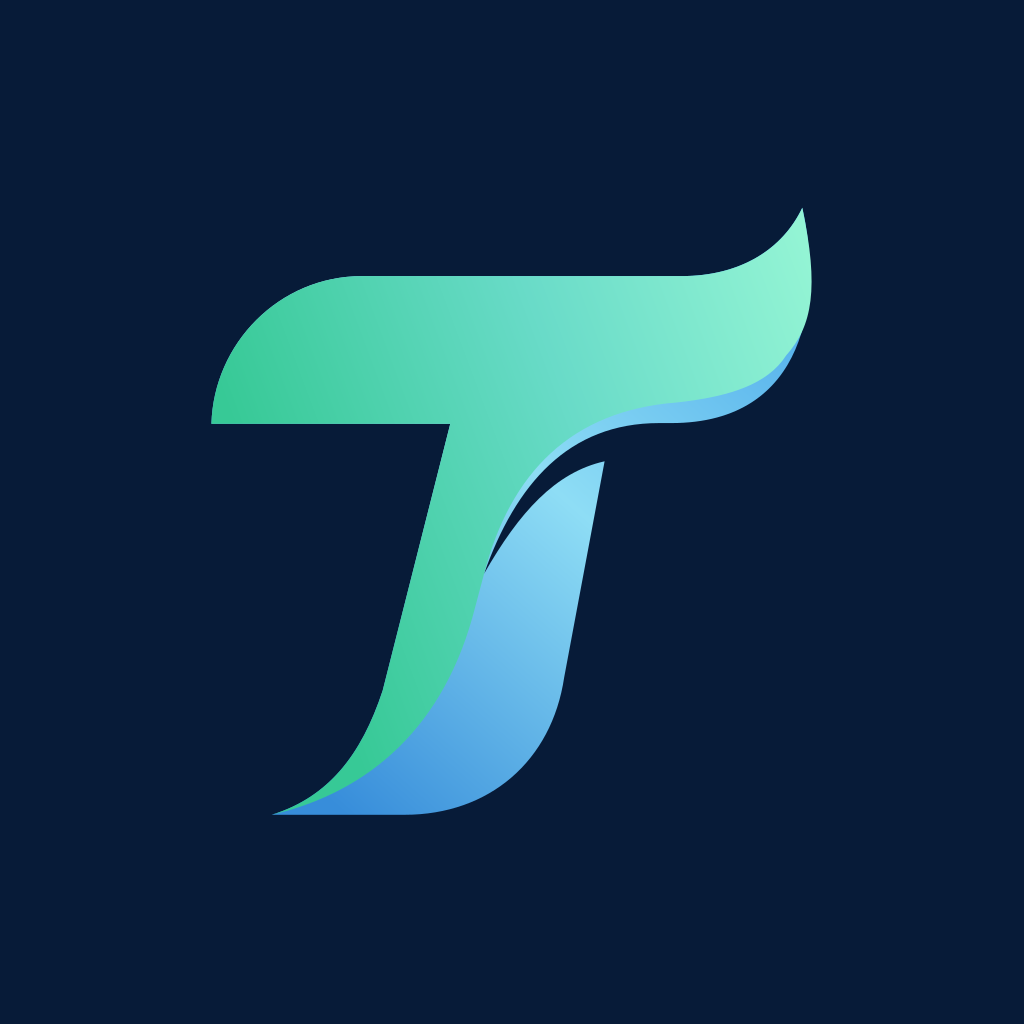
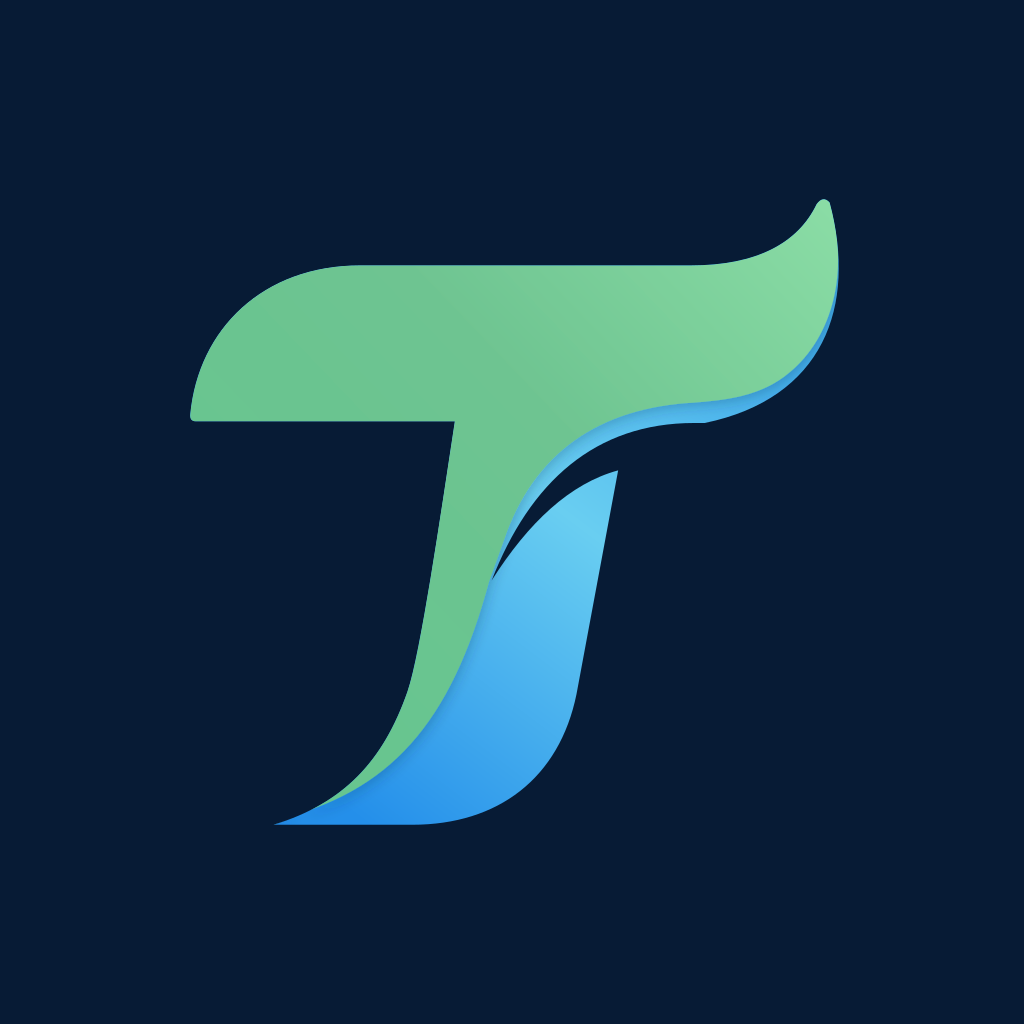
Unify approved Tempo mark and refine text-free launch motion [skip ci]

Changed region(s): [[0.1875, 0.1875, 0.8438, 0.8125]]

diff --git a/ios/TempoHealth/Sources/AccountViews.swift b/ios/TempoHealth/Sources/AccountViews.swift
@@ -10,19 +10,17 @@ struct TempoLaunchView: View {
     var body: some View {
         ZStack {
             TempoTheme.background
-            Image("TempoLaunchMark")
-                .resizable().scaledToFit().frame(width: 154, height: 154)
-                .mask { Rectangle().scaleEffect(x: 1, y: hasAppeared || reduceMotion ? 1 : 0, anchor: .bottom) }
-                .offset(y: hasAppeared || reduceMotion ? 0 : 12)
-                .scaleEffect(hasAppeared || reduceMotion ? 1 : 0.9)
-                .opacity(hasAppeared ? 1 : 0)
-                .animation(reduceMotion ? nil : .spring(response: 0.72, dampingFraction: 0.86), value: hasAppeared)
+            TempoBrandMark(size: 154)
+                .scaleEffect(reduceMotion || hasAppeared ? 1 : 0.94)
+                .blur(radius: reduceMotion || hasAppeared ? 0 : 3)
+                .opacity(reduceMotion || hasAppeared ? 1 : 0)
+                .animation(reduceMotion ? nil : .timingCurve(0.16, 1, 0.3, 1, duration: 0.82), value: hasAppeared)
                 .accessibilityIdentifier("launch.brand")
         }
         .frame(maxWidth: .infinity, maxHeight: .infinity)
         .ignoresSafeArea()
         .onAppear { hasAppeared = true }
-        .accessibilityElement(children: .contain)
+        .accessibilityElement(children: .ignore)
         .accessibilityLabel("Tempo")
     }
 }
@@ -34,6 +32,7 @@ struct TempoBrandMark: View {
         Image("TempoLaunchMark")
             .resizable()
             .scaledToFit()
+            .scaleEffect(1.3)
             .frame(width: size, height: size)
     }
 }

diff --git a/ios/TempoHealth/Sources/ContentView.swift b/ios/TempoHealth/Sources/ContentView.swift
@@ -80,6 +80,7 @@ struct ContentView: View {
         Group {
             if !minimumLaunchFinished || account.isRestoring {
                 TempoLaunchView()
+                    .transition(.opacity)
             } else if !account.isAuthenticated {
                 AccountWelcomeView()
             } else if account.profile?.onboardingComplete != true {
@@ -91,8 +92,10 @@ struct ContentView: View {
         .background(TempoTheme.background.ignoresSafeArea())
         .preferredColorScheme(.dark)
         .task {
-            try? await Task.sleep(nanoseconds: 1_400_000_000)
-            withAnimation(reduceMotion ? nil : .easeOut(duration: 0.25)) {
+            do { try await Task.sleep(nanoseconds: reduceMotion ? 200_000_000 : 1_150_000_000) }
+            catch { return }
+            guard !Task.isCancelled else { return }
+            withAnimation(reduceMotion ? nil : .easeOut(duration: 0.22)) {
                 minimumLaunchFinished = true
             }
         }

diff --git a/docs/tempo-final-polish-2026-10-25.md b/docs/tempo-final-polish-2026-10-25.md
@@ -154,3 +154,11 @@ The user-triggered build 40414108075 succeeded on c5f7885. The newer native chan
 - Returning manually from Strava releases the busy button while retaining the verifier for a delayed valid return. Choosing to skip or disconnect invalidates pending authorization so its late callback cannot reconnect against that choice. Existing ticket exchange and persistent connection storage are retained.
 - Focused existing OAuth state test passed with native preparation, denied callback, invalid challenge and existing web/mobile/tamper assertions. JavaScript syntax, Info.plist XML, Swift declaration inventory, localization uniqueness and diff integrity were checked. No full suite, simulator, iOS build or TestFlight upload was started. Actual app-to-app UI behavior still requires the new iOS build on an iPhone with Strava installed.
 - Production Cloudflare version b7af8401-a6b1-4225-8203-546067c14ac1 deployed with existing variables preserved. A synthetic live request returned preparation 200 with the expected Strava destination and a PKCE-bound denial return 302 to Tempo; no Strava account login or permission grant was performed by that check.
+
+## 27 October: approved green/blue branding and focused launch motion
+
+- The user selected the brighter blue/green preview preceding the muted-palette variant. Its flowing T, app-accent green and matching light contact shading are carried into the shared clean vector mark. The navy icon background is a uniform #071B35, with no generated grain. The preview reference is preserved locally in outputs/brand/approved-color-reference.png; generated transparent cutouts with stray edge artifacts were rejected.
+- branding/tempo/build.cjs generates all nine opaque AppIcon sizes, the build/app-icon copy, both identical transparent in-app image sets and the web SVG from this one vector. The shared TempoBrandMark used inside TempoProfileShareArtwork therefore supplies the same mark to the card preview, PNG export and share output. No branding assets are left dependent on generated-images paths.
+- Launch now uses a one-shot, centered logo focus/scale/fade entrance over a flat app background and a short fade into the next screen. No text, spinner, rings or repeated animation is added. Reduce Motion displays the mark immediately with a shorter minimum hold. Account restoration can keep the settled mark visible without replaying motion; cancelling the launch task no longer completes its delayed state change.
+- Asset checks verified catalog dimensions and opacity, identical in-app images, alpha transparency, matching build icon/web source and six uniform navy background samples. Diff/source checks only; no full suite, simulator, native build or TestFlight upload started. iPhone animation timing and exported card layout remain for the user’s new-build review.
+- Cloudflare web-mark publication completed with variables preserved: version d2d8e713-a6fb-4472-b629-49e0d90ed246. The iOS assets and launch motion require the next user-triggered build.

diff --git a/branding/tempo/README.md b/branding/tempo/README.md
@@ -1,5 +1,7 @@
 # Tempo T assets
 
-The approved flowing T is maintained in mark.svg. The app icon uses an opaque navy background; the in-app and launch mark remain transparent. All versions use the same paths and gradients, with no neon/glow.
+The approved green/blue T is maintained in mark.svg: app-accent green, brighter blue and matched soft contact shading along both ribbon seams. The background is a uniform #071B35; no texture, grain, neon or glow is used.
 
-To regenerate: install sharp in your Node environment, or set TEMPO_SHARP_PATH to its package directory, then run node branding/tempo/build.cjs. The script updates all Xcode icon sizes, the transparent launch image and web SVG. Keep the AppIcon Contents.json mapping intact.
+Run node branding/tempo/build.cjs with sharp installed, or set TEMPO_SHARP_PATH to its package directory. The generator updates all opaque AppIcon sizes, branding/app-icon.png, both transparent in-app image sets and the web SVG from the same vector. Do not edit the raster outputs independently. Keep the AppIcon Contents.json mapping intact.
+
+TempoBrandMark is also used by TempoProfileShareArtwork, so both profile-card preview and exported PNG receive the same transparent mark. Launch animation uses that shared mark, with one short focus/scale entrance, no text, no spinner and a reduced-motion alternative.
